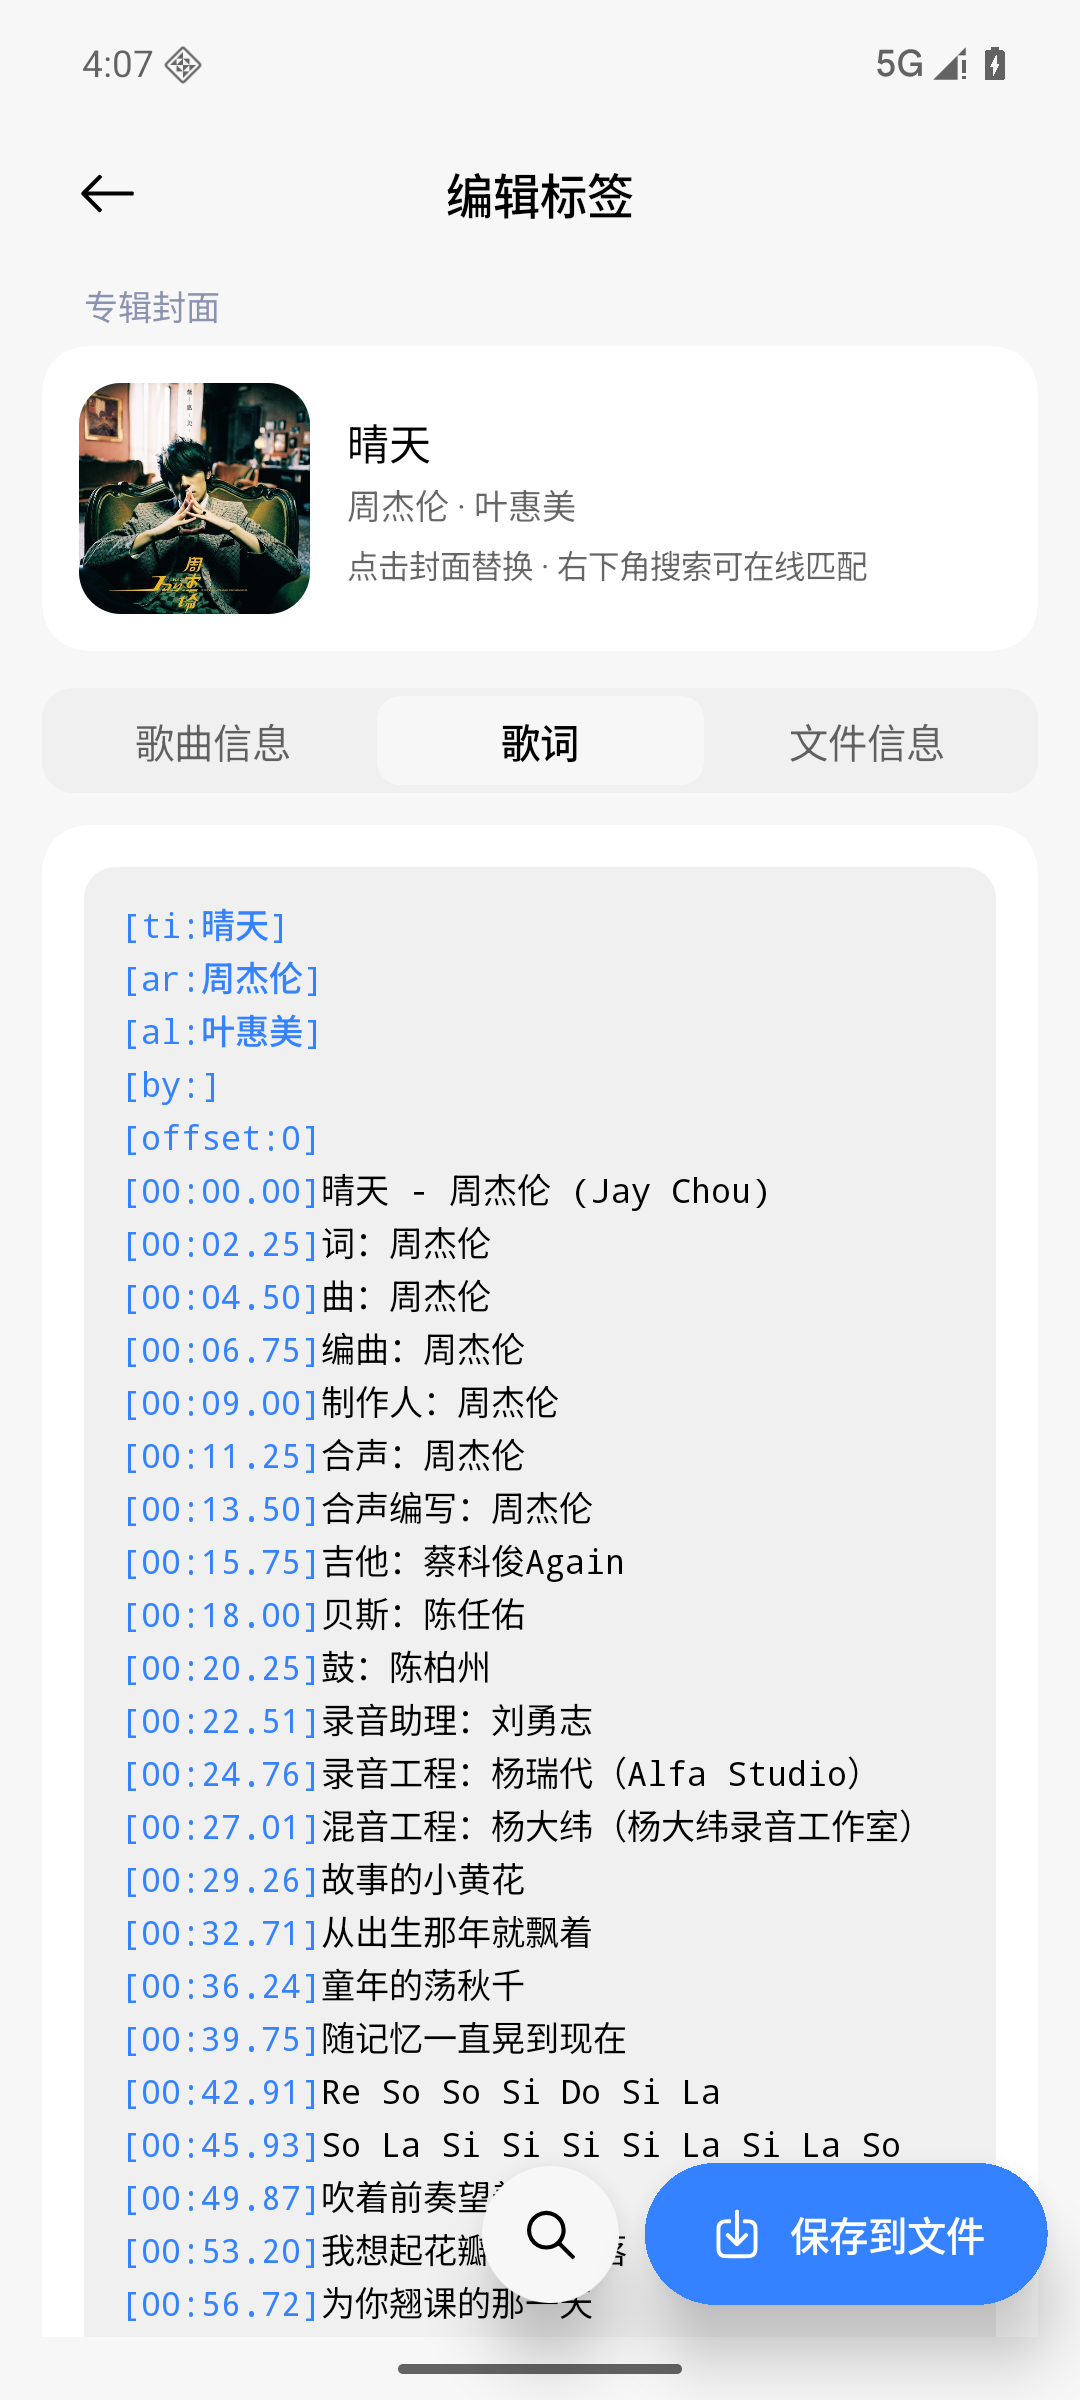
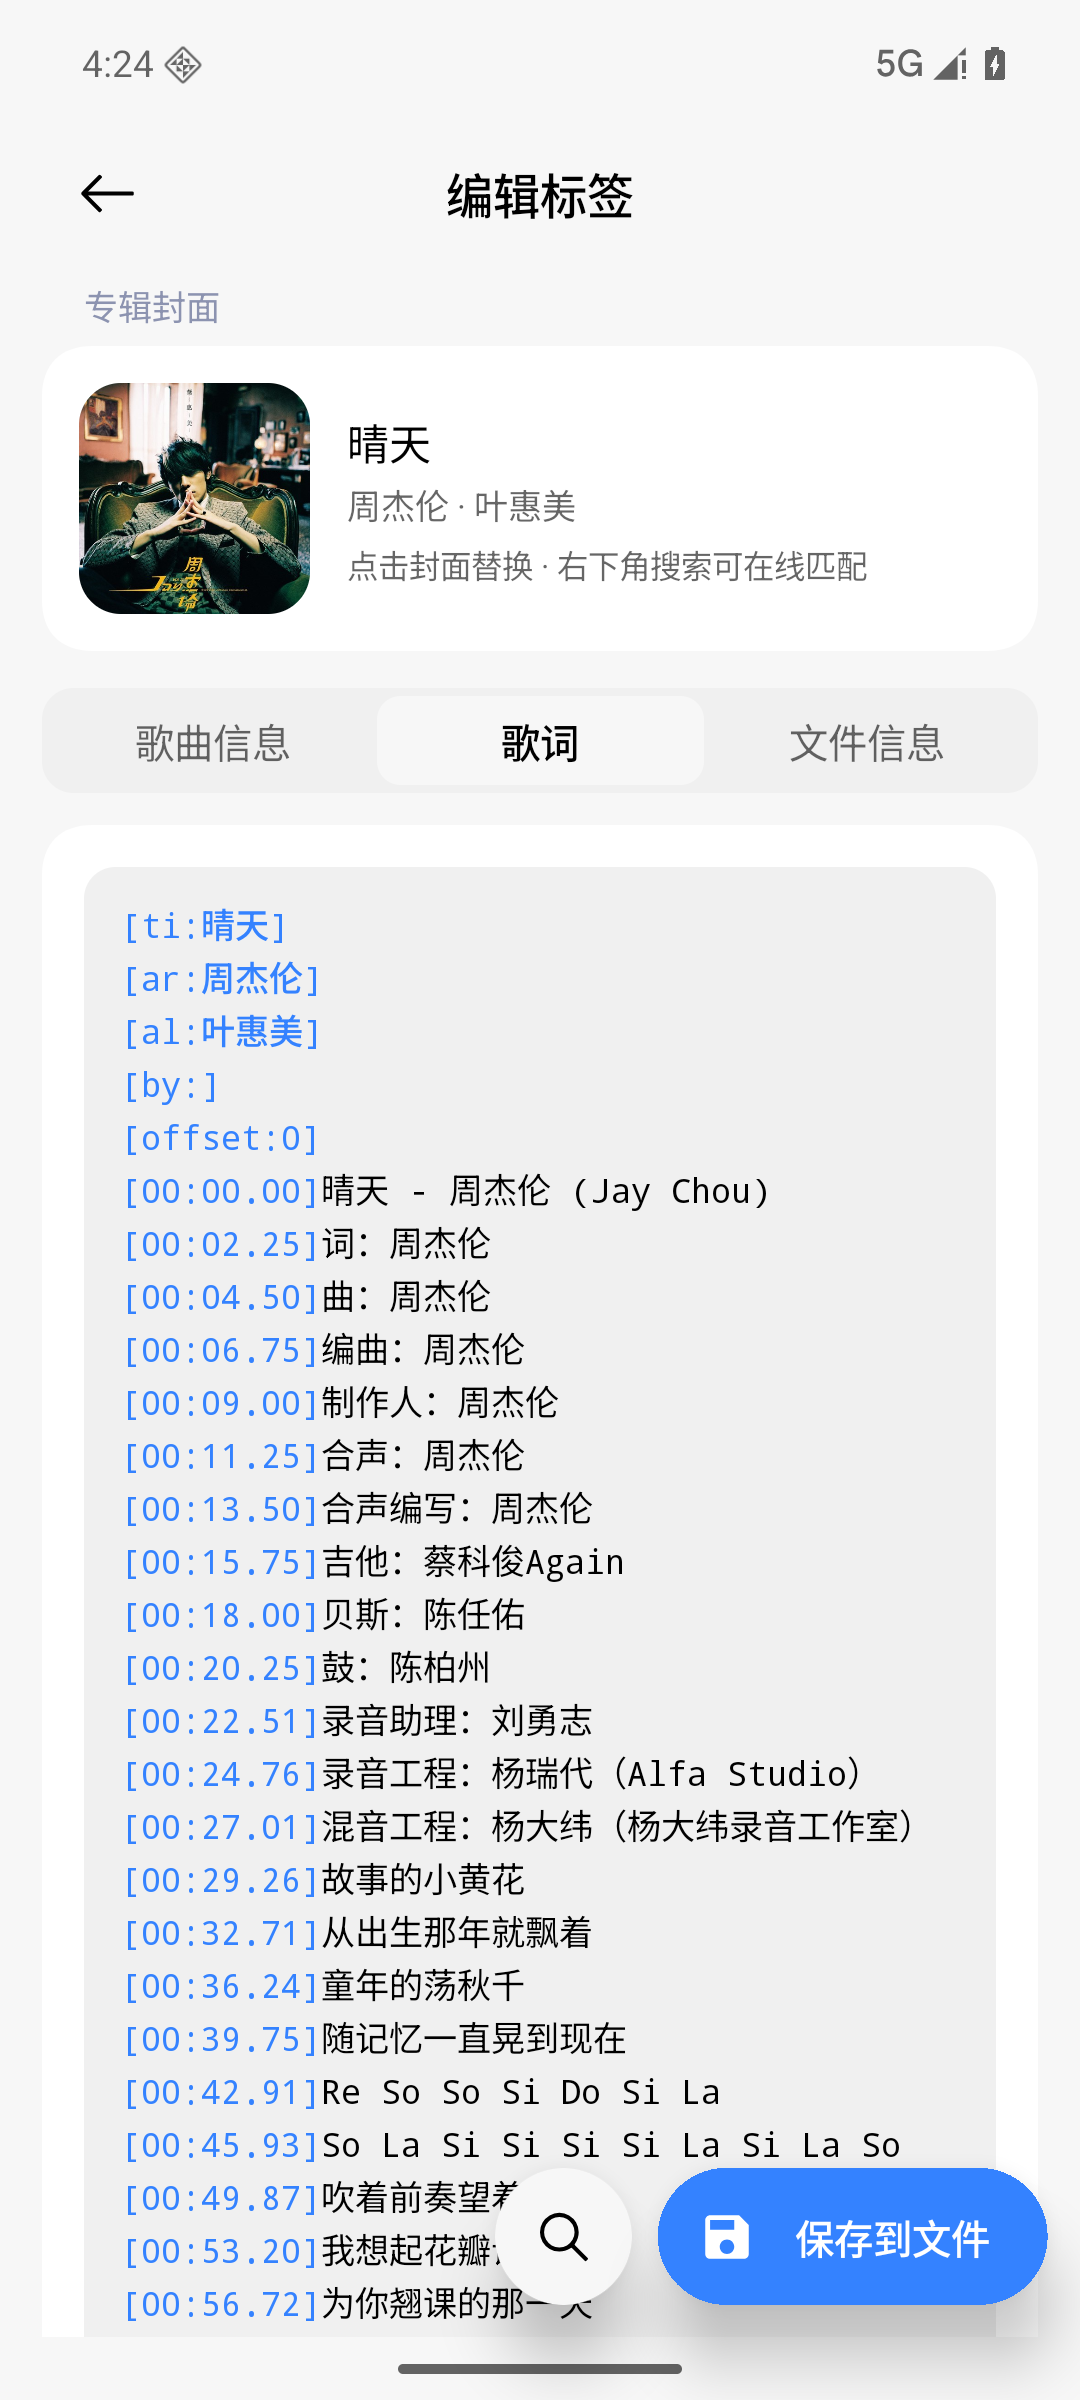
v1.2.4：保存 FAB 可伸缩（软盘图标）与弹性 Tab 动画
- 保存 FAB 顶部展开文案，滚动后收缩为圆形软盘图标，回顶平滑展开
- animateContentSize + AnimatedVisibility 伸缩动画；图标改为自绘软盘矢量
- 分段 Tab 滑块改为 spring 弹性滑动，文字颜色 180ms 过渡；切换 Tab 平滑回顶
- 版本 1.2.4 / versionCode 7

diff --git a/app/src/main/java/com/musictag/app/ui/components/Components.kt b/app/src/main/java/com/musictag/app/ui/components/Components.kt
@@ -2,10 +2,18 @@
 
 import android.graphics.Bitmap
 import androidx.annotation.DrawableRes
+import androidx.compose.animation.AnimatedVisibility
+import androidx.compose.animation.animateColorAsState
+import androidx.compose.animation.animateContentSize
 import androidx.compose.animation.core.Animatable
 import androidx.compose.animation.core.FastOutSlowInEasing
 import androidx.compose.animation.core.animateDpAsState
+import androidx.compose.animation.core.spring
 import androidx.compose.animation.core.tween
+import androidx.compose.animation.expandHorizontally
+import androidx.compose.animation.fadeIn
+import androidx.compose.animation.fadeOut
+import androidx.compose.animation.shrinkHorizontally
 import androidx.compose.foundation.Image
 import androidx.compose.foundation.background
 import androidx.compose.foundation.border
@@ -169,14 +177,14 @@ fun MiuixPrimaryButton(
     }
 }
 
-/** MIUI capsule extended floating action button (icon + label). */
+/** MIUI capsule floating action button: expands to show the label, collapses to a circle. */
 @Composable
-fun MiuixExtendedFloatingActionButton(
+fun MiuixSaveFloatingActionButton(
+    expanded: Boolean,
     text: String,
     onClick: () -> Unit,
     modifier: Modifier = Modifier,
     enabled: Boolean = true,
-    icon: androidx.compose.ui.graphics.vector.ImageVector? = null,
 ) {
     val container = if (enabled) MiuixTheme.colorScheme.primary else MiuixTheme.colorScheme.disabledPrimaryButton
     val content = if (enabled) MiuixTheme.colorScheme.onPrimary else MiuixTheme.colorScheme.disabledOnPrimaryButton
@@ -191,19 +199,42 @@ fun MiuixExtendedFloatingActionButton(
         shadowElevation = 12.dp,
     ) {
         Row(
-            modifier = Modifier.padding(horizontal = 24.dp, vertical = 16.dp),
+            modifier = Modifier
+                .height(52.dp)
+                .animateContentSize(
+                    animationSpec = tween(durationMillis = 260, easing = FastOutSlowInEasing),
+                ),
             verticalAlignment = Alignment.CenterVertically,
         ) {
-            if (icon != null) {
-                Icon(icon, contentDescription = null, tint = content, modifier = Modifier.size(22.dp))
-                Spacer(Modifier.width(9.dp))
+            Box(modifier = Modifier.size(52.dp), contentAlignment = Alignment.Center) {
+                Icon(
+                    painter = painterResource(R.drawable.ic_save_floppy),
+                    contentDescription = "保存到文件",
+                    tint = content,
+                    modifier = Modifier.size(22.dp),
+                )
             }
-            Text(
-                text = text,
-                style = MiuixTheme.textStyles.button,
-                fontWeight = FontWeight.Medium,
-                color = content,
-            )
+            AnimatedVisibility(
+                visible = expanded,
+                enter = fadeIn(tween(durationMillis = 140, delayMillis = 40)) +
+                    expandHorizontally(
+                        animationSpec = tween(durationMillis = 220, easing = FastOutSlowInEasing),
+                        expandFrom = Alignment.Start,
+                    ),
+                exit = fadeOut(tween(durationMillis = 90)) +
+                    shrinkHorizontally(
+                        animationSpec = tween(durationMillis = 180, easing = FastOutSlowInEasing),
+                        shrinkTowards = Alignment.Start,
+                    ),
+            ) {
+                Text(
+                    text = text,
+                    style = MiuixTheme.textStyles.button,
+                    fontWeight = FontWeight.Medium,
+                    color = content,
+                    modifier = Modifier.padding(end = 22.dp),
+                )
+            }
         }
     }
 }
@@ -230,7 +261,7 @@ fun MiuixSegmentedControl(
             val itemWidth = maxWidth / options.size
             val animatedOffset by animateDpAsState(
                 targetValue = itemWidth * selectedIndex.coerceIn(0, options.lastIndex),
-                animationSpec = tween(durationMillis = 220, easing = FastOutSlowInEasing),
+                animationSpec = spring(dampingRatio = 0.82f, stiffness = 420f),
                 label = "segmentOffset",
             )
             Box(
@@ -244,6 +275,15 @@ fun MiuixSegmentedControl(
             Row(modifier = Modifier.fillMaxWidth()) {
                 options.forEachIndexed { index, label ->
                     val selected = index == selectedIndex
+                    val contentColor by animateColorAsState(
+                        targetValue = if (selected) {
+                            MiuixTheme.colorScheme.onSurface
+                        } else {
+                            MiuixTheme.colorScheme.onSurfaceVariantSummary
+                        },
+                        animationSpec = tween(durationMillis = 180, easing = FastOutSlowInEasing),
+                        label = "segmentColor",
+                    )
                     Box(
                         modifier = Modifier
                             .weight(1f)
@@ -255,11 +295,7 @@ fun MiuixSegmentedControl(
                             text = label,
                             style = MiuixTheme.textStyles.button,
                             fontWeight = if (selected) FontWeight.Medium else FontWeight.Normal,
-                            color = if (selected) {
-                                MiuixTheme.colorScheme.onSurface
-                            } else {
-                                MiuixTheme.colorScheme.onSurfaceVariantSummary
-                            },
+                            color = contentColor,
                         )
                     }
                 }

diff --git a/app/src/main/java/com/musictag/app/ui/editor/EditorScreen.kt b/app/src/main/java/com/musictag/app/ui/editor/EditorScreen.kt
@@ -1,4 +1,4 @@
-package com.musictag.app.ui.editor
+package com.musictag.app.ui.editor
 
 import android.graphics.Bitmap
 import android.net.Uri
@@ -20,10 +20,12 @@ import androidx.compose.foundation.layout.padding
 import androidx.compose.foundation.layout.size
 import androidx.compose.foundation.layout.width
 import androidx.compose.foundation.lazy.LazyColumn
+import androidx.compose.foundation.lazy.rememberLazyListState
 import androidx.compose.foundation.shape.CircleShape
 import androidx.compose.foundation.shape.RoundedCornerShape
 import androidx.compose.runtime.Composable
 import androidx.compose.runtime.LaunchedEffect
+import androidx.compose.runtime.derivedStateOf
 import androidx.compose.runtime.getValue
 import androidx.compose.runtime.mutableIntStateOf
 import androidx.compose.runtime.mutableStateOf
@@ -46,7 +48,7 @@ import com.musictag.app.ui.components.ErrorState
 import com.musictag.app.ui.components.InfoRow
 import com.musictag.app.ui.components.LoadingState
 import com.musictag.app.ui.components.LyricsTextField
-import com.musictag.app.ui.components.MiuixExtendedFloatingActionButton
+import com.musictag.app.ui.components.MiuixSaveFloatingActionButton
 import com.musictag.app.ui.components.MiuixSegmentedControl
 import com.musictag.app.ui.components.MusicTagTextField
 import com.musictag.app.util.Formats
@@ -94,6 +96,12 @@ fun EditorScreen(
     var showCoverDialog by remember { mutableStateOf(false) }
     var pendingSaveAsName by remember { mutableStateOf<String?>(null) }
     var selectedTab by rememberSaveable { mutableIntStateOf(0) }
+    val listState = rememberLazyListState()
+    val saveExpanded by remember {
+        derivedStateOf {
+            listState.firstVisibleItemIndex == 0 && listState.firstVisibleItemScrollOffset < 12
+        }
+    }
 
     val imagePicker = rememberLauncherForActivityResult(ActivityResultContracts.OpenDocument()) { picked ->
         if (picked != null) viewModel.setArtworkFromLocal(picked)
@@ -126,6 +134,12 @@ fun EditorScreen(
             pendingSaveAsName = null
             createDocument.launch(name)
         }
+    }
+
+    // A tab switch returns to the top so the extended save FAB is expanded and
+    // the new tab starts from its first field.
+    LaunchedEffect(selectedTab) {
+        listState.animateScrollToItem(0)
     }
 
     val requestClose: () -> Unit = {
@@ -162,7 +176,8 @@ fun EditorScreen(
                     if (selectedTab != 2) {
                         SearchFloatingActionButton(onClick = viewModel::openSearch)
                     }
-                    MiuixExtendedFloatingActionButton(
+                    MiuixSaveFloatingActionButton(
+                        expanded = saveExpanded,
                         text = if (state.saving) "保存中…" else "保存到文件",
                         onClick = {
                             if (state.hasChanges) {
@@ -172,7 +187,6 @@ fun EditorScreen(
                             }
                         },
                         enabled = !state.saving,
-                        icon = MiuixIcons.Download,
                     )
                 }
             }
@@ -192,6 +206,7 @@ fun EditorScreen(
                 else -> {
                     val track = state.track!!
                     LazyColumn(
+                        state = listState,
                         modifier = Modifier.fillMaxSize().padding(padding),
                         contentPadding = PaddingValues(start = 16.dp, end = 16.dp, top = 6.dp, bottom = 120.dp),
                         verticalArrangement = Arrangement.spacedBy(12.dp),

diff --git a/docs/RELEASE_NOTES-v1.2.4.md b/docs/RELEASE_NOTES-v1.2.4.md
@@ -1,0 +1,36 @@
+# 音签 MusicTagger v1.2.4
+
+交互打磨版本：**可伸缩保存 FAB、更优雅的 Tab 动画**。
+
+## 下载
+
+- `MusicTagger-v1.2.4.apk`（R8 压缩 + 资源裁剪，约 **1.5 MB**）
[1 lines of base64/hex data omitted]
+- 系统要求：Android 8.0（API 26）及以上；动态取色需 Android 12+
+
+## 更新内容
+
+- **保存 FAB 可伸缩**：
+  - 页面在顶部时展开为「💾 保存到文件」胶囊；向下滚动后自动收缩为圆形软盘图标，
+    回到顶部再平滑展开。
+  - 使用 `animateContentSize` + `AnimatedVisibility(expand/shrinkHorizontally + fade)` 做伸缩动画，
+    260ms 标准缓动；保存图标替换为软盘样式矢量图。
+  - 无修改时点击仍提示「没有需要保存的修改」。
+- **分段 Tab 动画优化**：滑块位移改为 `spring(dampingRatio=0.82, stiffness=420)` 的弹性滑动，
+  选中/未选中文字颜色用 180ms 颜色过渡；仍保持无阴影、无强调色。
+- 切换到其它 Tab 时列表平滑回到顶部，保存 FAB 随之展开。
+
+## 验证
+
+- release APK 在 API 36 模拟器安装：编辑页顶部 FAB 展开、滚动后收缩为圆形、回顶展开均正常；
+  Tab 切换动画正常；154 个 `:core` 单测保持通过。
+
+## 已知限制
+
+- 位深/编码等由系统 MediaExtractor 提供，个别容器可能返回“未知”。
+- Spotify 源未接入（OAuth + 无歌词接口）。
+- release 目前使用 debug 签名，便于直接安装。
+
+## 开源
+
+Apache License 2.0。项目地址：<https://github.com/Kastorice/MusicTagger>

diff --git a/docs/TEST-REPORT.md b/docs/TEST-REPORT.md
@@ -241,11 +241,21 @@ MIUI UI 专项验证（均为真机/模拟器截图确认）：
 - release APK 仍为 1,572,049 字节（约 1.5 MB）；154 个单测通过。
 - 版本 `versionCode 6` / `versionName 1.2.3`。
 
+### 第十二轮 v1.2.4（2026-11-15）
+
+- 保存 FAB 改为可伸缩：`rememberLazyListState` + `derivedStateOf` 判断是否在顶部；
+  顶部展开文案，滚动后收缩为圆形；`animateContentSize` 与 `AnimatedVisibility`
+  做 expand/shrinkHorizontally + fade 动画；保存图标改为自绘软盘矢量。
+- 分段控件滑块改为 spring(dampingRatio=0.82, stiffness=420) 弹性滑动，文字颜色 180ms 过渡。
+- 切换 Tab 时列表平滑回到顶部（`animateScrollToItem(0)`），FAB 同步展开。
+- release APK 1,588,990 字节（约 1.5 MB）；154 个单测通过。
+- 版本 `versionCode 7` / `versionName 1.2.4`。
+
 ## 3. 构建产物
 
 - `app/build/outputs/apk/release/app-release.apk`（约 **1.5 MB**，R8 压缩、资源裁剪，debug 签名）
 - `app/build/outputs/apk/debug/app-debug.apk`（约 11 MB，供开发调试）
-- `dist/MusicTagger-v1.2.3.apk`（交付副本，SHA-256 见 `dist/SHA256.txt`）
+- `dist/MusicTagger-v1.2.4.apk`（交付副本，SHA-256 见 `dist/SHA256.txt`）
 
 ## 4. 复现步骤
 
